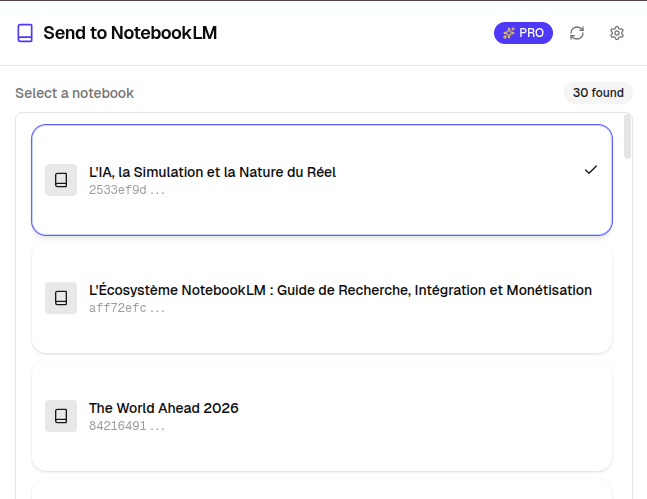
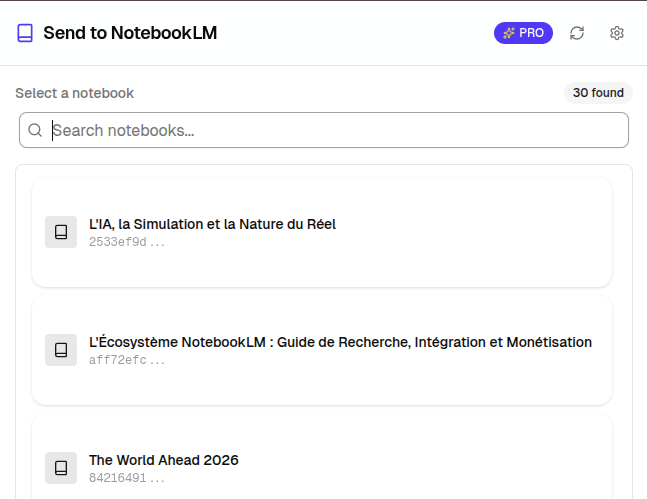
feat: Introduce notebook search functionality to the popup UI and remove last selected notebook restoration logic.

diff --git a/components/popup/popup-main.tsx b/components/popup/popup-main.tsx
@@ -12,10 +12,12 @@ import {
   Sparkles,
   Zap,
   Crown,
+  Search,
 } from "lucide-react";
 import { useEffect, useState } from "react";
 import { Badge } from "@/components/ui/badge";
 import { Button } from "@/components/ui/button";
+import { Input } from "@/components/ui/input";
 import {
   Card,
 } from "@/components/ui/card";
@@ -53,6 +55,11 @@ export default function PopupMain() {
     monthly: number;
   } | null>(null);
   const [showUpgradeModal, setShowUpgradeModal] = useState(false);
+  const [searchQuery, setSearchQuery] = useState("");
+
+  const filteredNotebooks = notebooks.filter((nb) =>
+    nb.title.toLowerCase().includes(searchQuery.toLowerCase())
+  );
 
   useEffect(() => {
     if (typeof chrome !== "undefined" && chrome.tabs) {
@@ -142,21 +149,12 @@ export default function PopupMain() {
     return () => window.removeEventListener('keydown', handleKeyboard);
   }, [selectedNotebookId, notebooks]);
 
+  // Restore last selected notebook logic REMOVED based on user feedback
+  /*
   useEffect(() => {
-    notebooks.length === 0 ||
-    typeof chrome === "undefined" ||
-    !chrome.storage
-      ? null
-      : chrome.storage.local.get("lastNotebook", (result) => {
-          if (result.lastNotebook && result.lastNotebook.id) {
-            const found = notebooks.find((nb) => nb.id === result.lastNotebook.id);
-            if (found) {
-              setSelectedNotebookId(found.id);
-              console.log("Restored last notebook:", found.title);
-            }
-          }
-        });
+    ...
   }, [notebooks]);
+  */
 
   const handleNotebookSelect = async (notebook: Notebook) => {
     if (addingToNotebookId) return;
@@ -367,9 +365,26 @@ export default function PopupMain() {
                 <Badge variant="secondary">{notebooks.length} found</Badge>
               </div>
 
-              <ScrollArea className="h-full w-full rounded-md border">
+              <div className="px-1">
+                <div className="relative">
+                  <Search className="absolute left-2 top-2.5 h-4 w-4 text-muted-foreground" />
+                  <Input
+                    placeholder="Search notebooks..."
+                    value={searchQuery}
+                    onChange={(e) => setSearchQuery(e.target.value)}
+                    className="pl-8 bg-card"
+                  />
+                </div>
+              </div>
+
+              <ScrollArea className="h-full w-full rounded-md border mt-2">
                 <div className="space-y-2 p-3 pr-4">
-                  {notebooks.map((nb) => (
+                  {filteredNotebooks.length === 0 ? (
+                    <div className="text-center text-sm text-muted-foreground py-8">
+                      No notebooks found matching "{searchQuery}"
+                    </div>
+                  ) : (
+                    filteredNotebooks.map((nb) => (
                     <Card
                       key={nb.id}
                       className={`cursor-pointer group transition-all duration-200 hover:shadow-md hover:border-indigo-200 mx-1 border-transparent hover:bg-white
@@ -401,7 +416,7 @@ export default function PopupMain() {
                           )}
                       </div>
                     </Card>
-                  ))}
+                  )))}
                 </div>
               </ScrollArea>
             </div>
